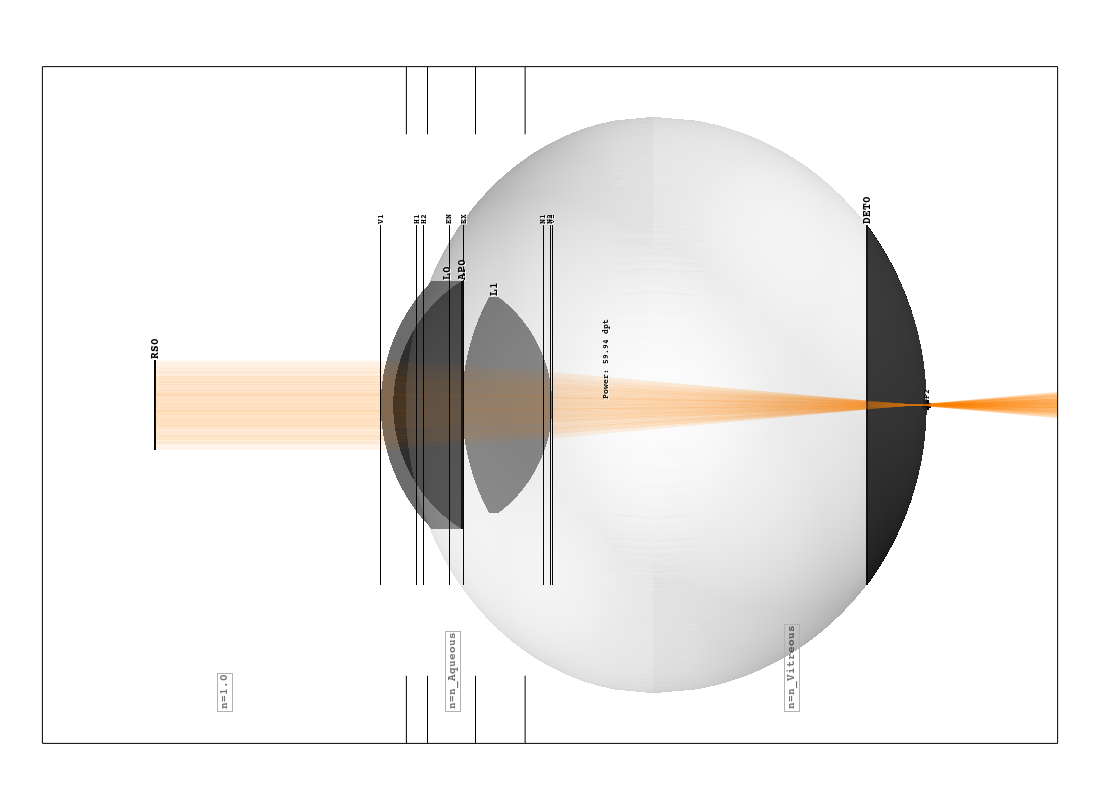
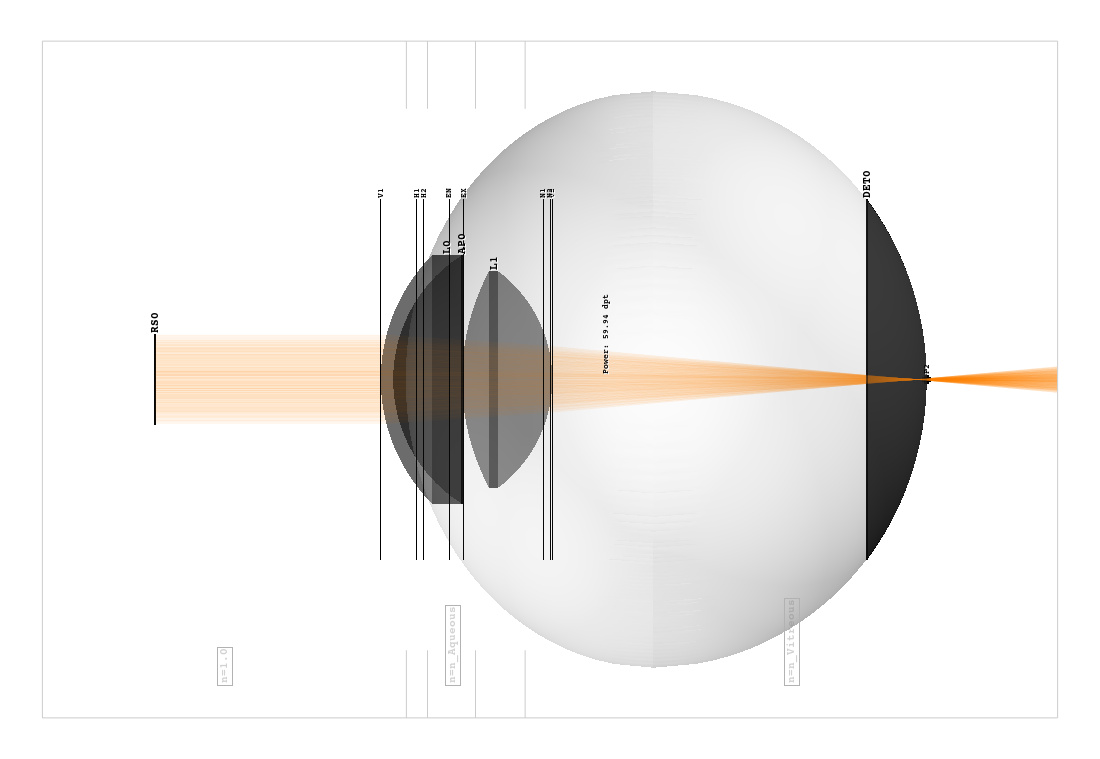
Improved cylinder visibility in high contrast mode

diff --git a/optrace/gui/_scene_plotting.py b/optrace/gui/_scene_plotting.py
@@ -363,6 +363,10 @@ class ScenePlotting:
         # cylinder between surfaces
         b = plot(obj.cylinder_surface(nc=2 * self.SURFACE_RES), "cylinder") if plotCyl else None
 
+        # adapt cylinder opacity
+        if plotCyl and isinstance(obj, Lens):
+            b.actor.property.trait_set(opacity=self._cylinder_opacity)
+
         # use wireframe mode, so edge is always visible, even if it is infinitesimal small
         if plotCyl and (not obj.has_back() or (obj.extent[5] - obj.extent[4] < 0.05)):
             b.actor.property.trait_set(representation="wireframe", lighting=False, line_width=1.75, opacity=alpha/1.5)
@@ -502,6 +506,7 @@ class ScenePlotting:
         self._info_frame_color = (0, 0, 0) if not high_contrast else (1, 1, 1)
         self._info_opacity = 0.2
         self._volume_color = (0.45, 0.45, 0.45) if not high_contrast else (1, 1, 1)
+        self._cylinder_opacity = self._lens_alpha if not high_contrast else 0.6
 
     def init_keyboard_shortcuts(self) -> None:
         """init keyboard shortcut detection inside the scene"""
@@ -671,10 +676,15 @@ class ScenePlotting:
             for obj in objs:
                 for el in obj[:3]:
                     if el is not None:
-                        el.actor.property.trait_set(color = color)
+                        el.actor.property.trait_set(color=color)
                         if high_contrast and el not in [self._crosshair, self._outline]:
                             el.actor.property.trait_set(specular_color=(0.15, 0.15, 0.15),
                                                         diffuse_color=(0.12, 0.12, 0.12))
+
+        # change lens cylinder visibility
+        for lens in self._lens_plots:
+            if lens[1] is not None:
+                lens[1].actor.property.trait_set(opacity=self._cylinder_opacity)
 
         # update axes color
         for ax in self._axis_plots:
